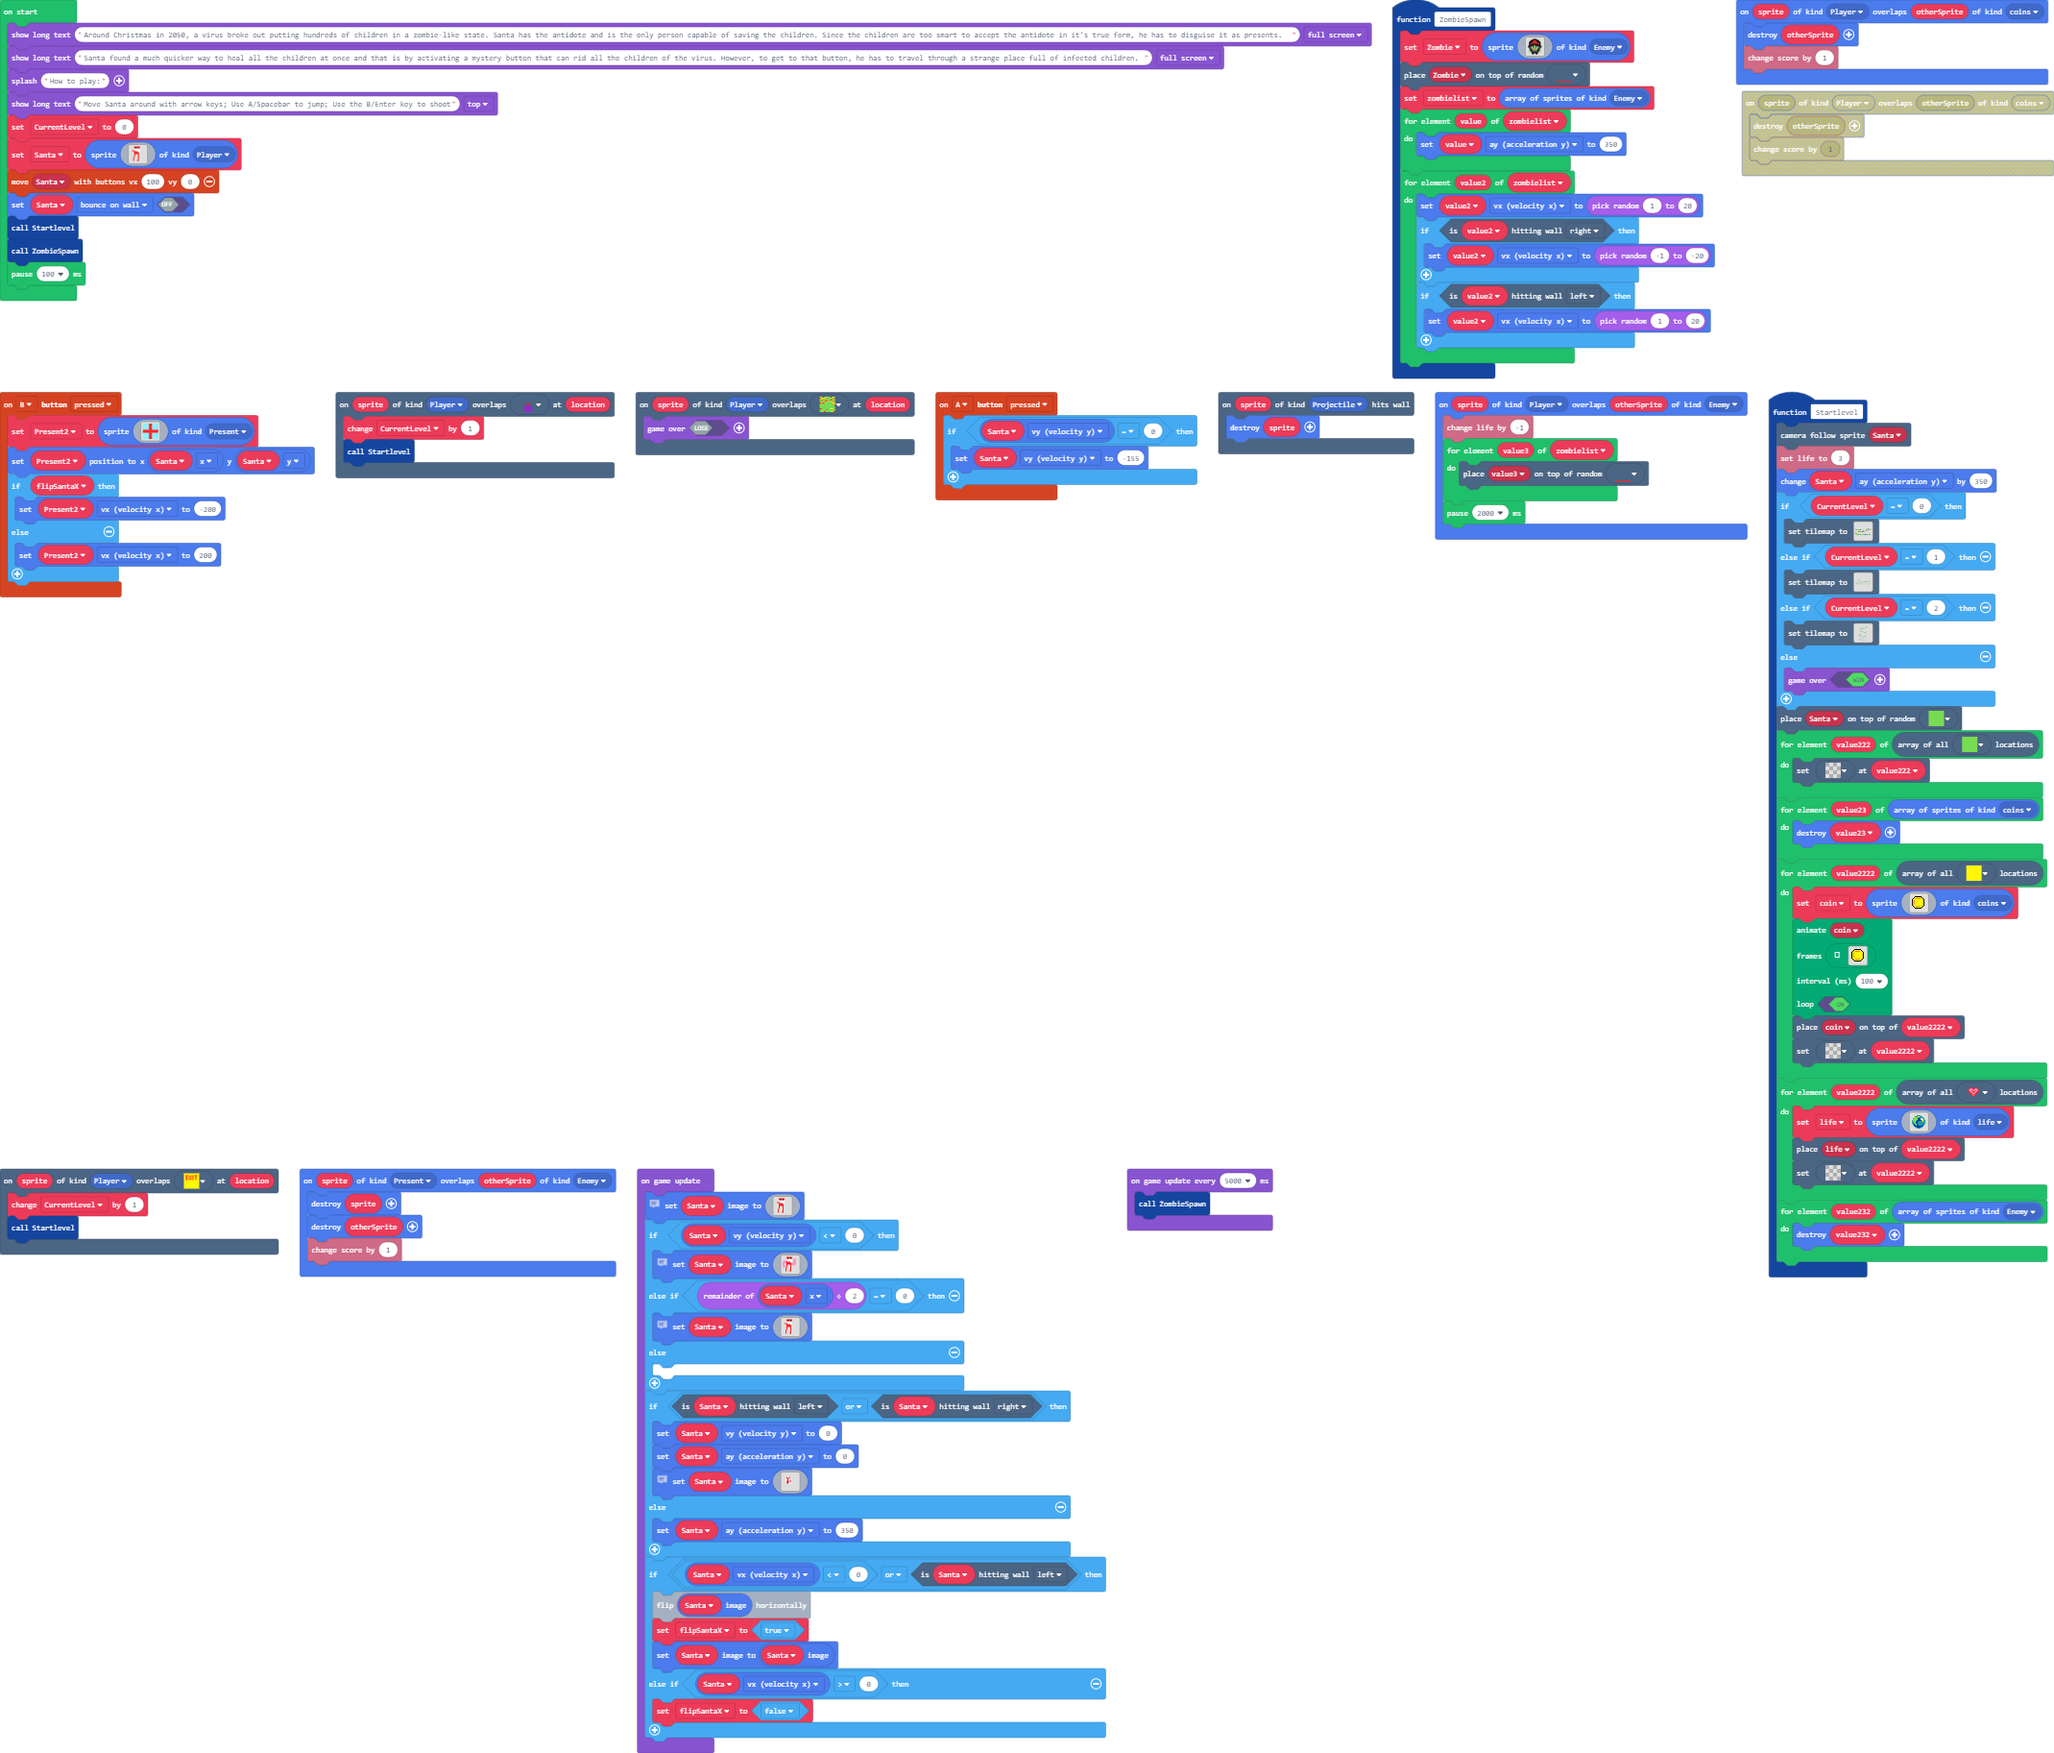
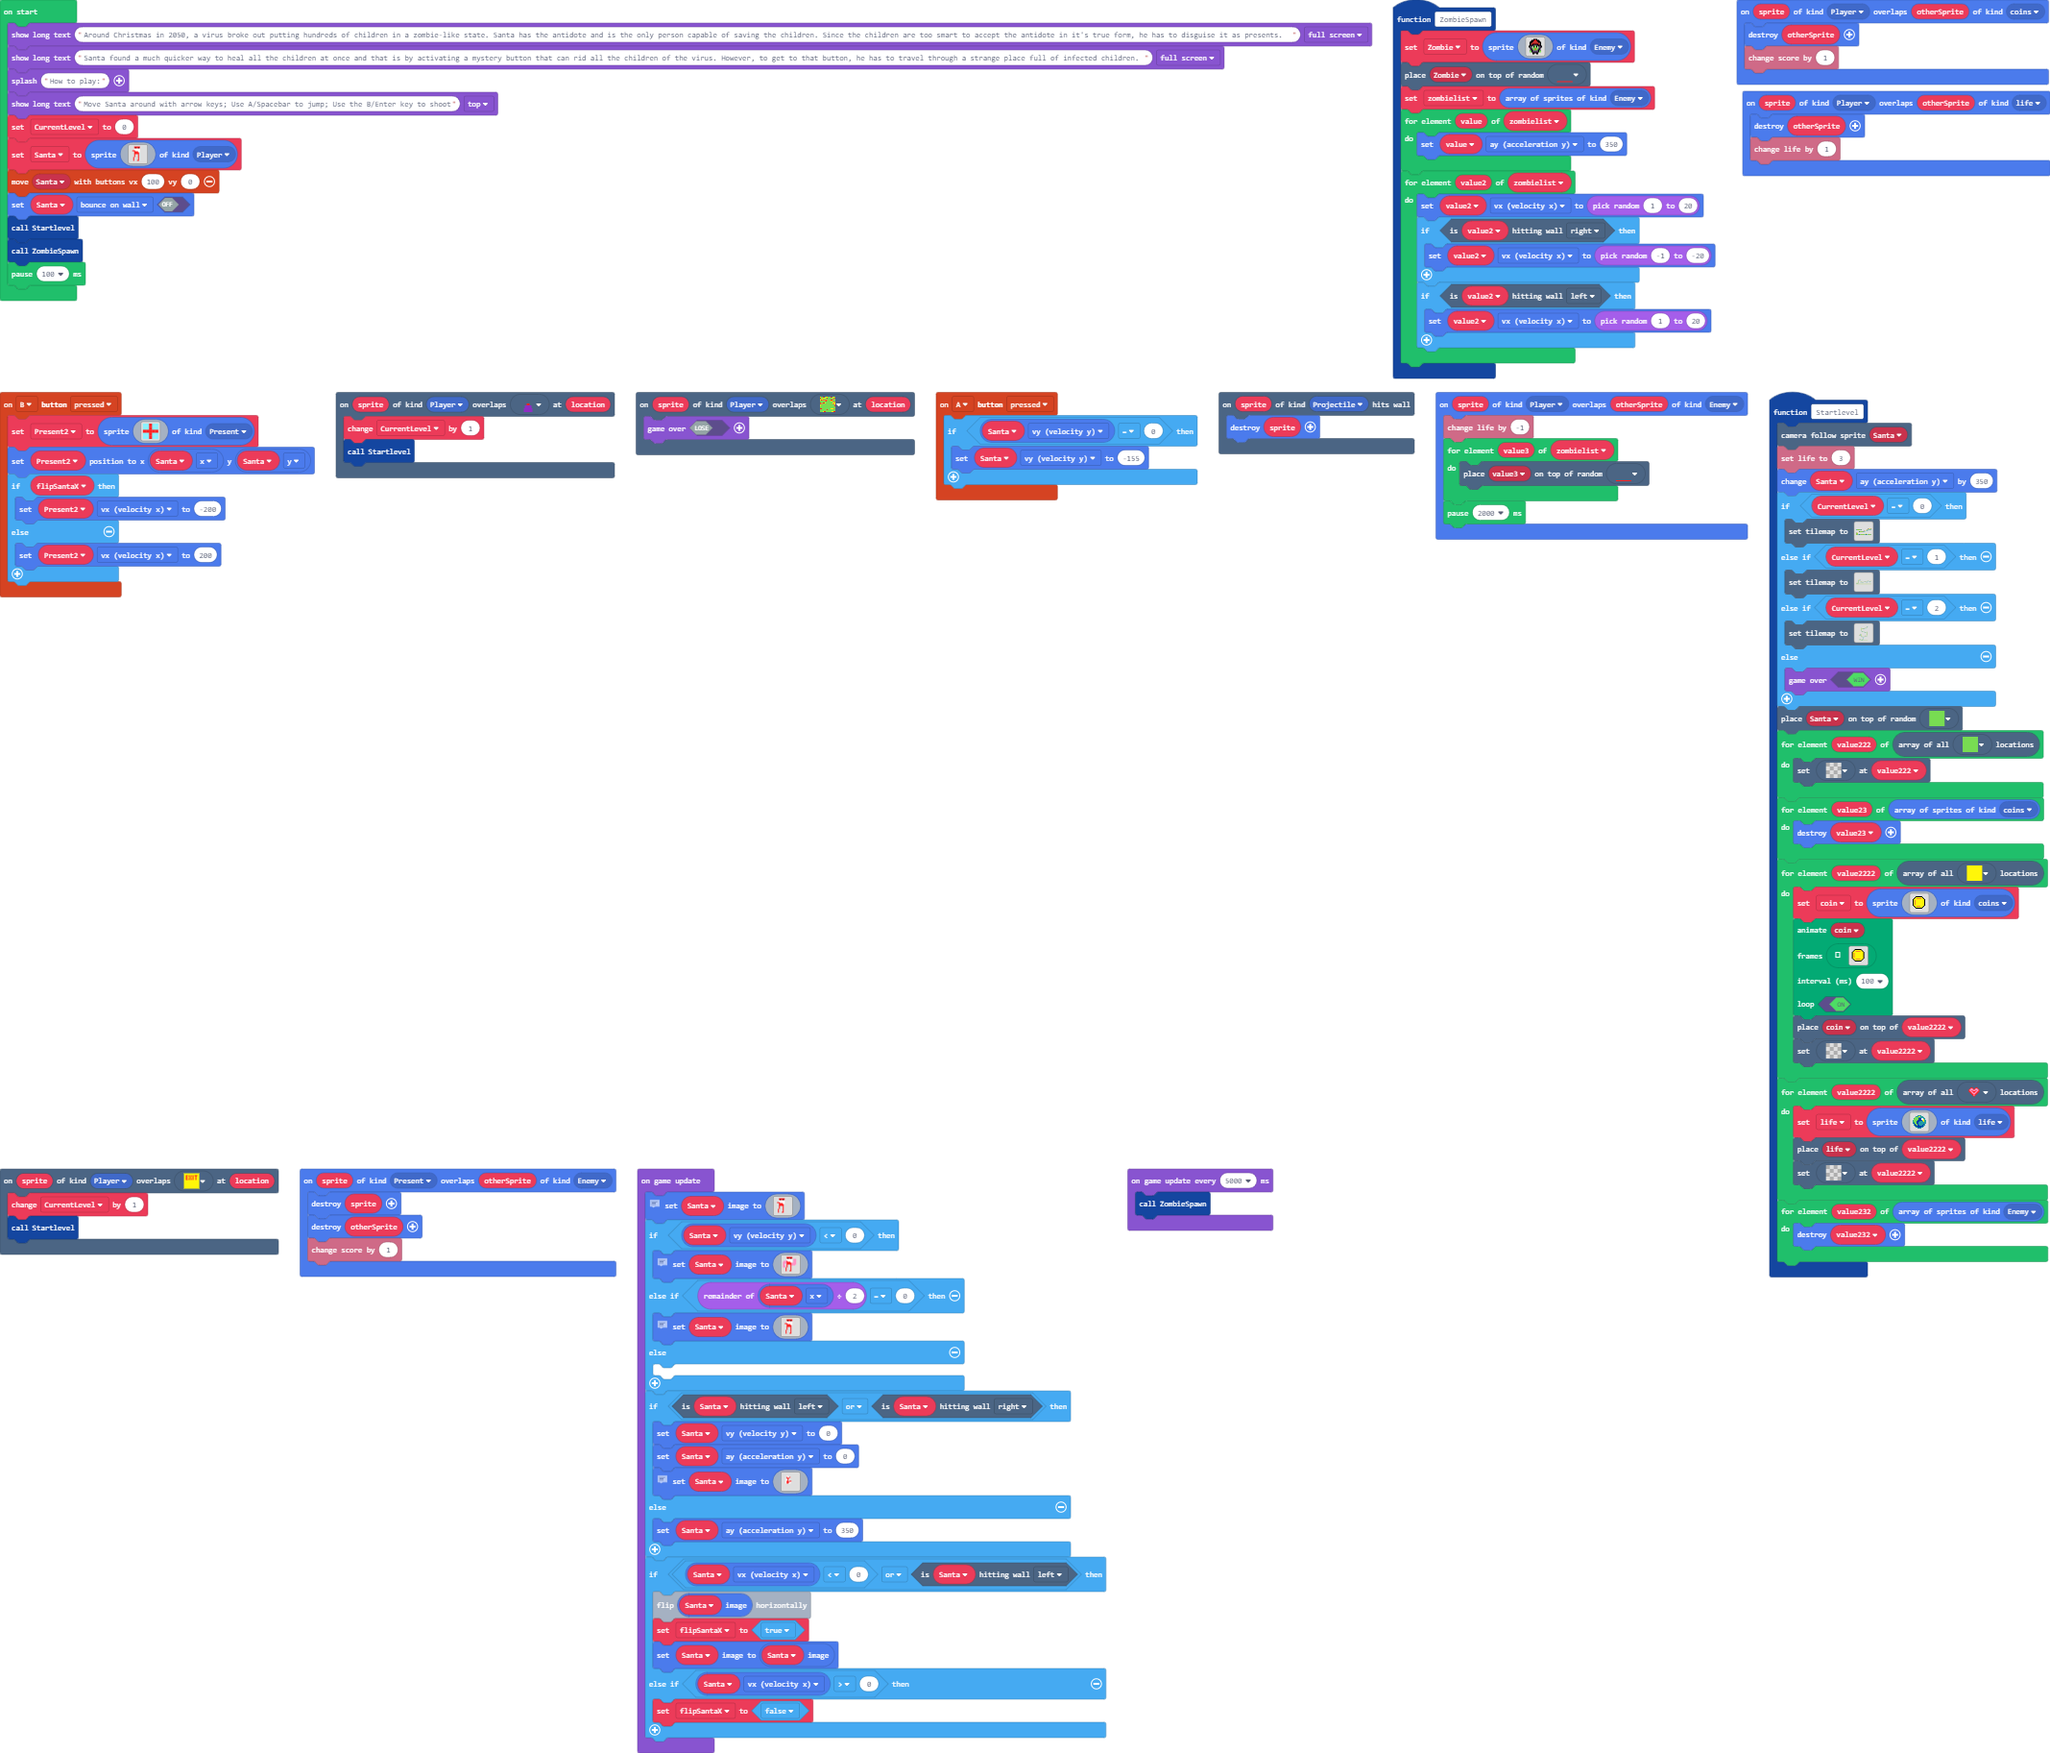
Update main.blocks, main.ts

diff --git a/main.ts b/main.ts
@@ -241,6 +241,10 @@ controller.A.onEvent(ControllerButtonEvent.Pressed, function () {
         Santa.vy = -155
     }
 })
+sprites.onOverlap(SpriteKind.Player, SpriteKind.life, function (sprite, otherSprite) {
+    otherSprite.destroy()
+    info.changeLifeBy(1)
+})
 scene.onHitWall(SpriteKind.Projectile, function (sprite) {
     sprite.destroy()
 })
